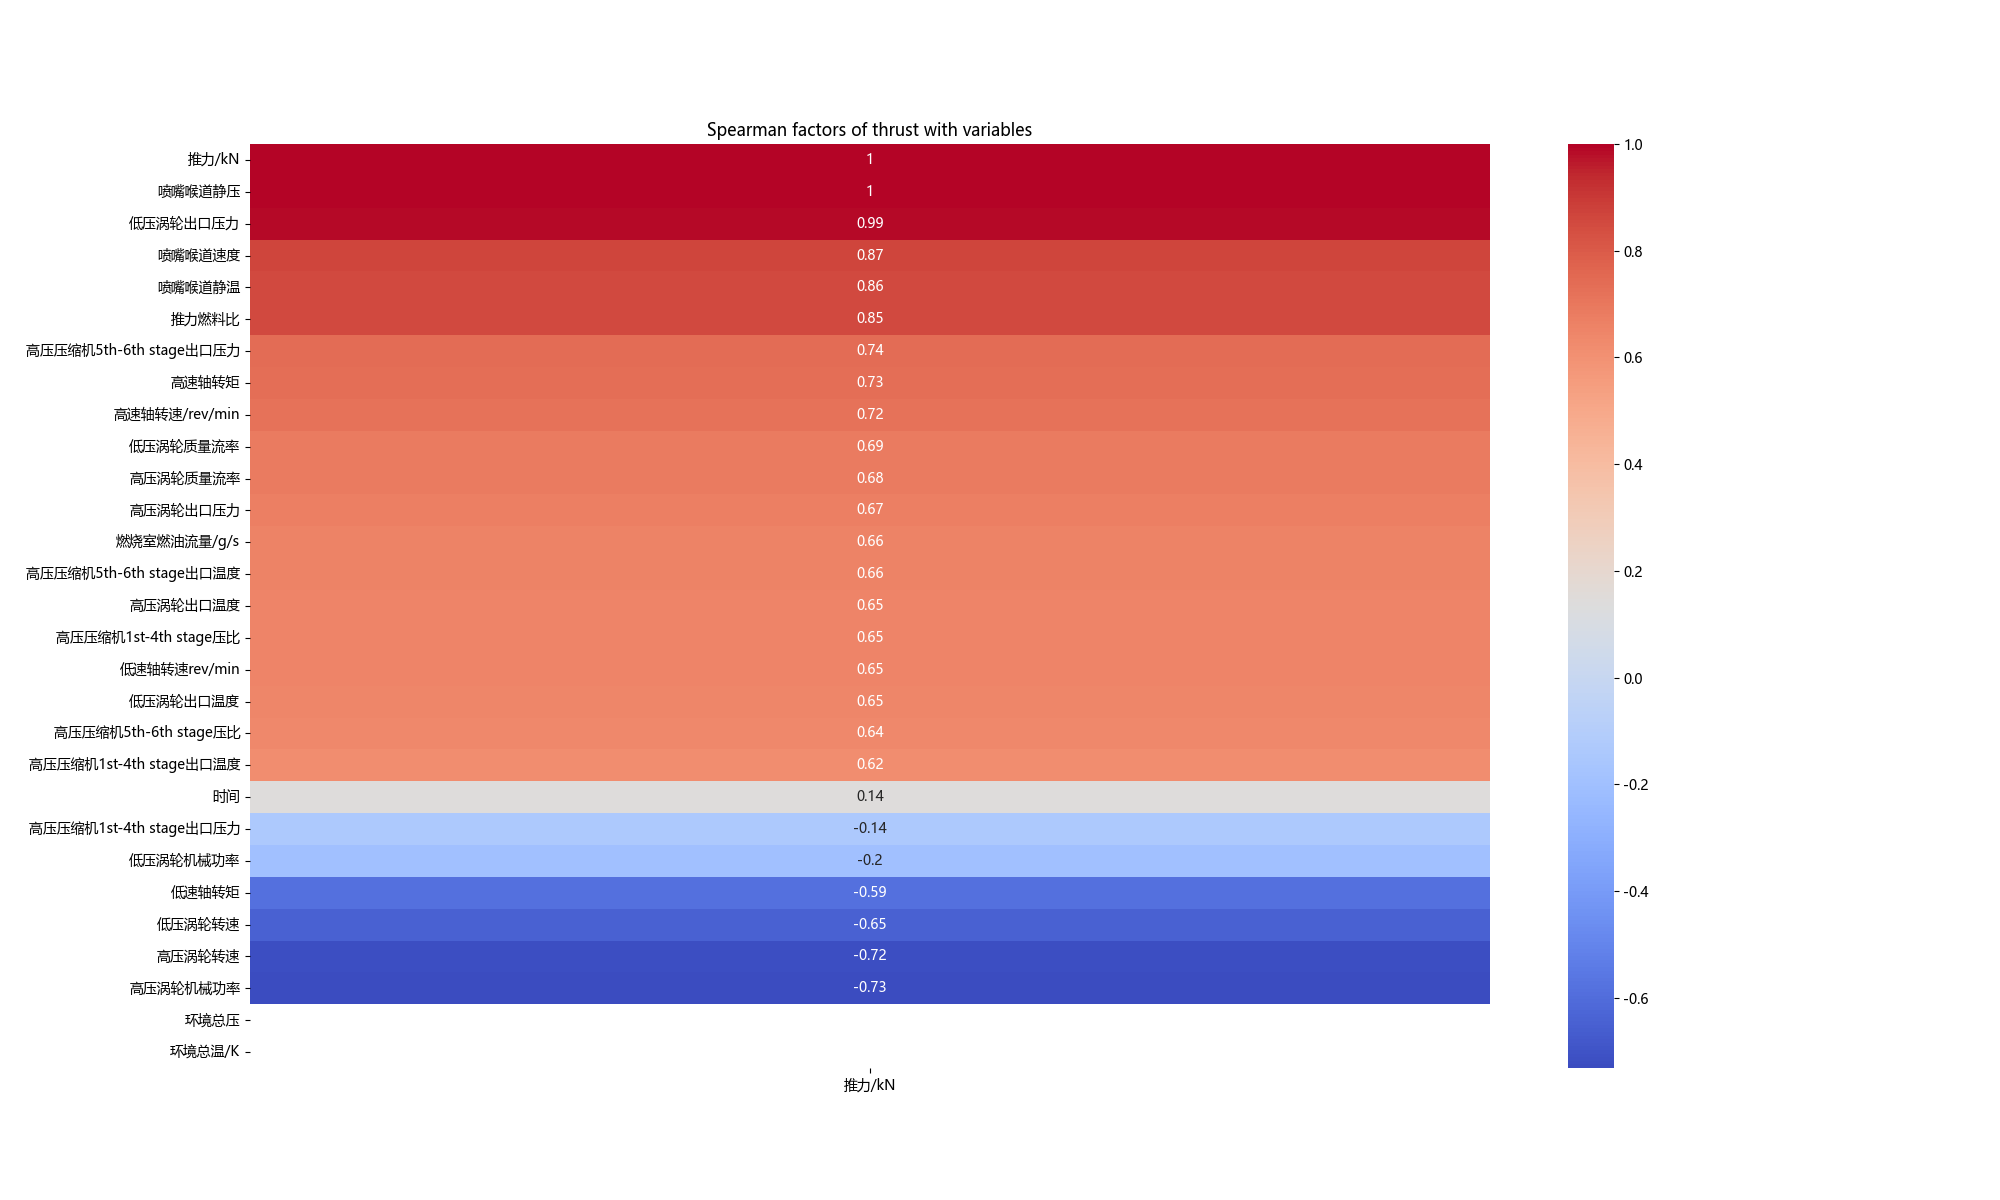
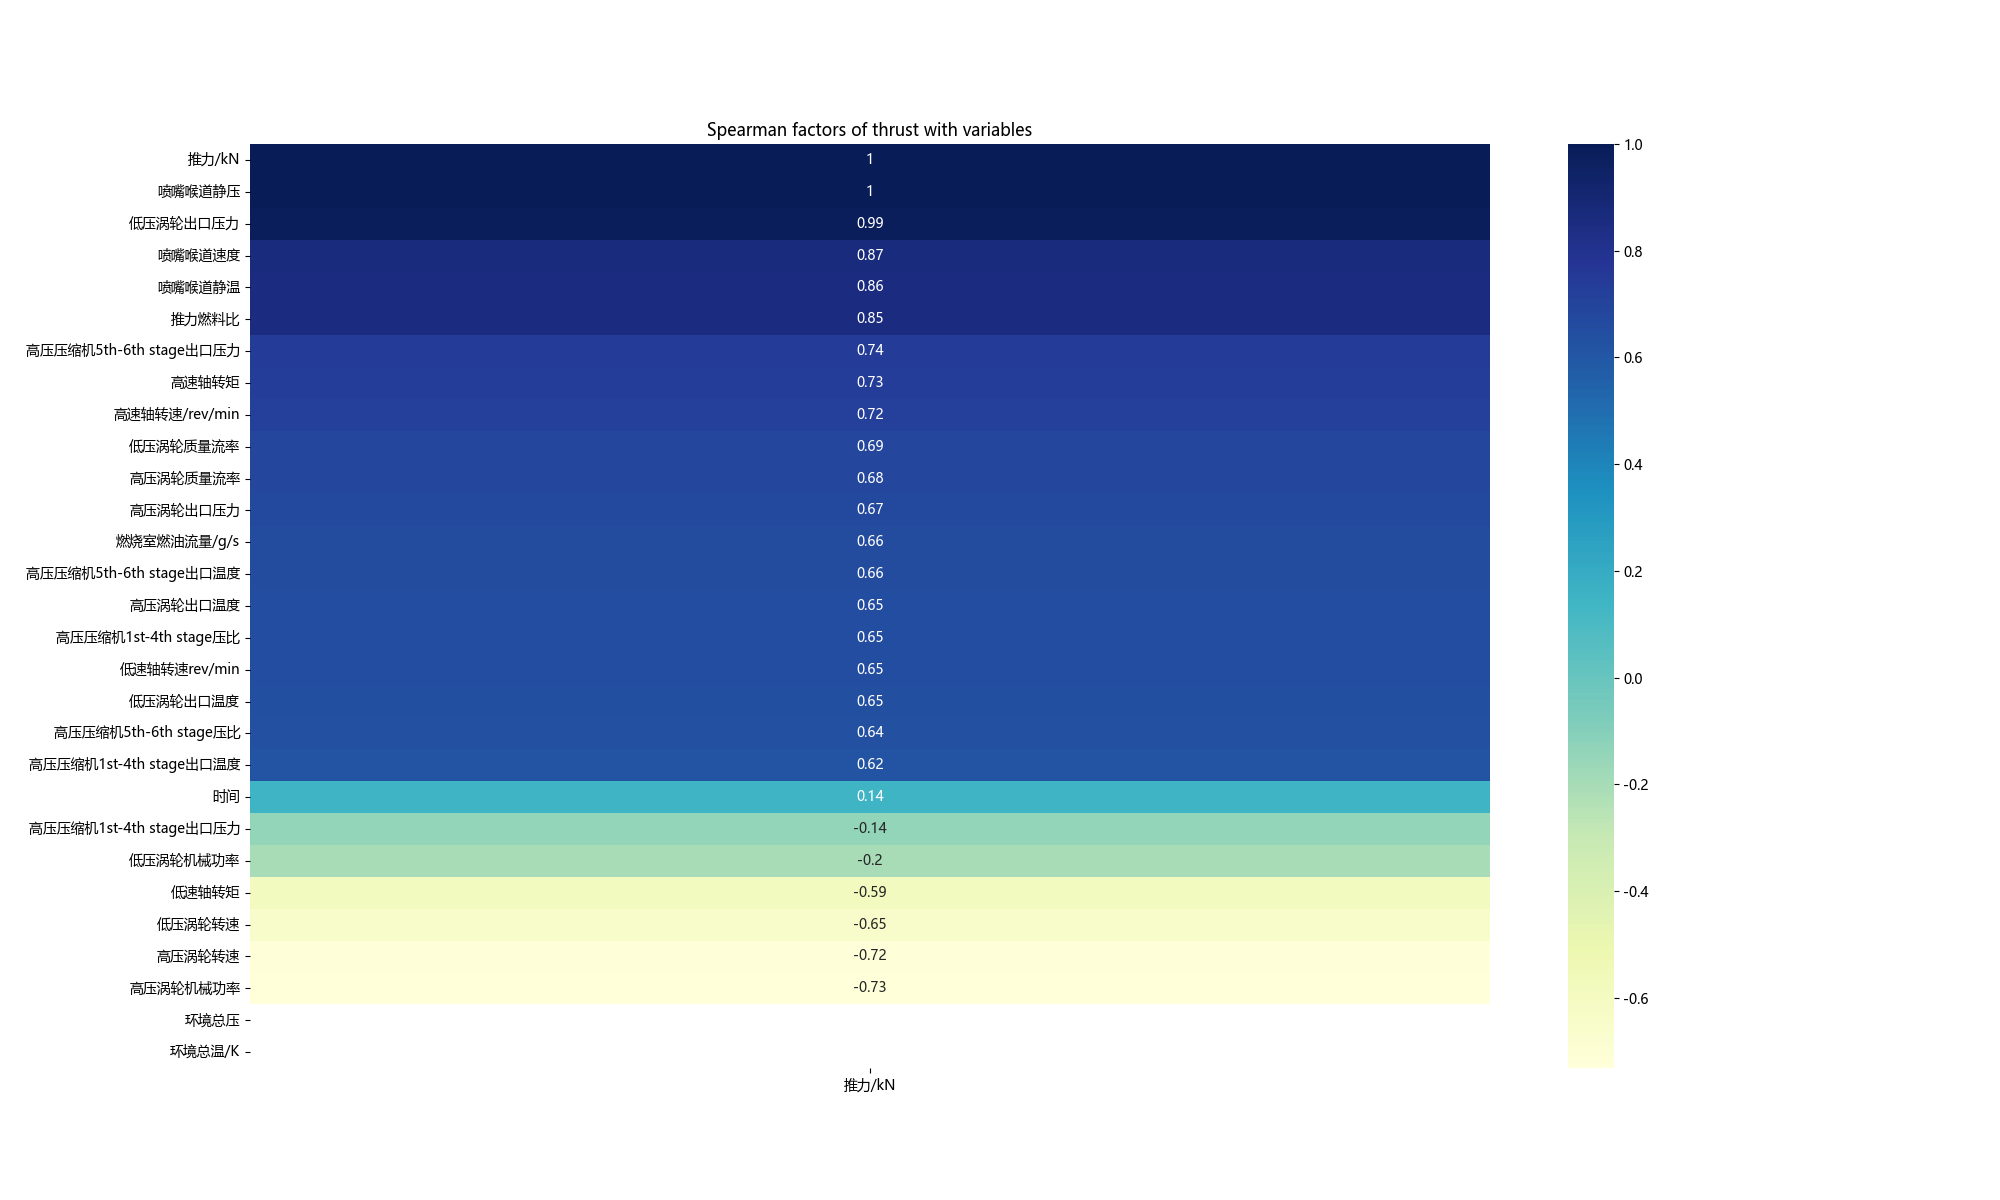
Update Figures for Report

diff --git a/Senior_Thesis/data_processing.py b/Senior_Thesis/data_processing.py
@@ -75,7 +75,7 @@ plt.close()
 plt.figure(figsize=(20, 12))
 spearman_corr = data_raw.corr(method='spearman')[['推力/kN']].sort_values('推力/kN', ascending=False)
 print("\nSpearman Correlation Coefficients：\n", spearman_corr)
-sns.heatmap(spearman_corr, annot=True, cmap='coolwarm')
+sns.heatmap(spearman_corr, annot=True, cmap='YlGnBu')
 plt.title("Spearman factors of thrust with variables")
 plt.savefig("Figures/Spearman_Factors.png")
 plt.close()
